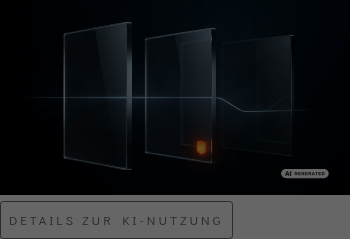
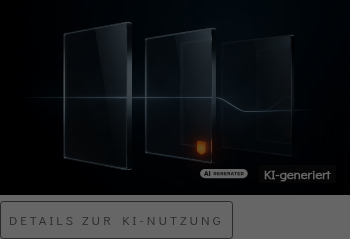
Begleitbeschriftung in der Sprache der Website neben dem EU-Symbol
Die offiziellen Symbole tragen den englischen Schriftzug "AI",
"AI GENERATED" bzw. "AI MODIFIED" und sind nicht uebersetzbar: Die Kommission
veroeffentlicht drei Varianten in vier Farbfassungen, in keiner weiteren
Sprache, und gestattet keine Aenderung des Schriftzugs. Darin liegt ihr Zweck
— ein Zeichen, das unionsweit gleich aussieht, wird wiedererkannt wie ein
Verkehrsschild. Eine selbst gesetzte deutsche Fassung waere ein Nachbau, kein
offizielles Symbol, und die Build-Anweisung untersagt das Nachzeichnen
ausdruecklich.

Die Bedeutung transportiert deshalb der Text daneben, und den gab es bisher
nur als Ersatz, wenn die Symboldateien fehlten. Neue Site-Set-Einstellung
showTextLabel (Vorgabe an) stellt die vorhandenen, uebersetzten Bezeichnungen
neben das Symbol: "KI-generiert", "KI-bearbeitet", "KI". Der Verhaltenskodex
empfiehlt eine solche Begleitbeschriftung ausdruecklich. Eine an der Datei
hinterlegte eigene Beschriftung hat Vorrang; fehlt das Symbol, erscheint der
Text nicht doppelt.

Der Schriftzug bekommt eine eigene Hinterlegung, hell oder dunkel passend zur
Symbolvariante. Ohne sie stuende er ueber Bildpunkten, die nie gemessen
wurden: BadgeContrastService prueft die Helligkeit hinter dem Symbol, der Text
reicht darueber hinaus. Am Beispiel nachgerechnet: 18,9:1 statt "kommt aufs
Bild an".

Dokumentiert in Konfiguration (de/en) samt der Begruendung, warum nicht
uebersetzt wird. Screenshot erneuert.
[…]

Changed region(s): [[0.7429, 0.7029, 0.9429, 0.7615], [0.5714, 0.7029, 0.7143, 0.7615]]

diff --git a/Resources/Public/Css/aimark.css b/Resources/Public/Css/aimark.css
@@ -135,6 +135,30 @@
   white-space: nowrap;
 }
 
+/*
+ * The wording beside the icon gets a ground of its own.
+ *
+ * The icon is a filled disc and brings its own contrast; the text does not.
+ * BadgeContrastService samples the small area behind the icon, and the text
+ * reaches beyond it — over pixels nobody measured. Without this the label
+ * would be legible on the sample and possibly not where it actually sits.
+ * On a badge that already has a plate the plate does the job.
+ */
+.nt-aimark__badge--plain .nt-aimark__badge-text {
+  padding: 0.1em 0.4em;
+  border-radius: 0.2em;
+}
+
+.nt-aimark__badge--plain.nt-aimark__badge--icon-white .nt-aimark__badge-text {
+  background: #111111;
+  color: #ffffff;
+}
+
+.nt-aimark__badge--plain.nt-aimark__badge--icon-dark .nt-aimark__badge-text {
+  background: #ffffff;
+  color: #111111;
+}
+
 .nt-aimark__toggle {
   display: inline-block;
   margin-top: 0.35rem;

diff --git a/Resources/Private/Templates/Label/Badge.html b/Resources/Private/Templates/Label/Badge.html
@@ -43,7 +43,14 @@
             </f:else>
         </f:if>
         <f:if condition="{labelText}">
-            <span class="nt-aimark__badge-text">{labelText}</span>
+            <f:then>
+                <span class="nt-aimark__badge-text">{labelText}</span>
+            </f:then>
+            <f:else>
+                <f:if condition="{standardTextKey}">
+                    <span class="nt-aimark__badge-text"><f:translate key="{standardTextKey}" /></span>
+                </f:if>
+            </f:else>
         </f:if>
     </span>
 </f:section>

diff --git a/Tests/Functional/Service/LabelRenderServiceTest.php b/Tests/Functional/Service/LabelRenderServiceTest.php
@@ -192,6 +192,72 @@ final class LabelRenderServiceTest extends FunctionalTestCase
     }
 
     /**
+     * The official icons carry an English wordmark and must not be redrawn or
+     * translated — they are the Commission's artwork and apply unchanged
+     * across the Union. The meaning therefore travels in the wording beside
+     * them, in the language of the site.
+     */
+    #[Test]
+    public function theIconIsAccompaniedByWordingInTheSiteLanguage(): void
+    {
+        $declaration = $this->generatedDeclaration();
+        $decision = (new DisclosureRuleService())->resolve($declaration, new AiMarkSettings());
+
+        $html = $this->rendererWithIcons()->renderBadge(
+            $declaration,
+            $decision,
+            $this->frontendRequest(),
+            showTextLabel: true,
+        );
+
+        self::assertStringContainsString('<svg', $html, 'The official icon still carries the badge.');
+        self::assertStringContainsString('KI-generiert', $html);
+
+        $this->removeEmptyIconDirectory();
+    }
+
+    #[Test]
+    public function theWordingCanBeSwitchedOff(): void
+    {
+        $declaration = $this->generatedDeclaration();
+        $decision = (new DisclosureRuleService())->resolve($declaration, new AiMarkSettings());
+
+        $html = $this->rendererWithIcons()->renderBadge(
+            $declaration,
+            $decision,
+            $this->frontendRequest(),
+            showTextLabel: false,
+        );
+
+        self::assertStringContainsString('<svg', $html);
+        self::assertStringNotContainsString('nt-aimark__badge-text', $html);
+
+        $this->removeEmptyIconDirectory();
+    }
+
+    /**
+     * Without the icon the badge already falls back to the same words. Adding
+     * the standard wording on top would say it twice.
+     */
+    #[Test]
+    public function withoutAnIconTheWordingIsNotRepeated(): void
+    {
+        $declaration = $this->generatedDeclaration();
+        $decision = (new DisclosureRuleService())->resolve($declaration, new AiMarkSettings());
+
+        $html = $this->rendererWithoutIcons()->renderBadge(
+            $declaration,
+            $decision,
+            $this->frontendRequest(),
+            showTextLabel: true,
+        );
+
+        self::assertSame(1, substr_count($html, 'KI-generiert'));
+
+        $this->removeEmptyIconDirectory();
+    }
+
+    /**
      * Used on its own, without image markup, there is nothing to frame.
      */
     #[Test]

diff --git a/Tests/Functional/Service/IconDirectoryTrait.php b/Tests/Functional/Service/IconDirectoryTrait.php
@@ -26,14 +26,45 @@ trait IconDirectoryTrait
 
     private function rendererWithoutIcons(): LabelRenderService
     {
+        return $this->rendererFor($this->iconDirectory());
+    }
+
+    /**
+     * Stand-ins for the official artwork, so a test about the badge does not
+     * depend on whether somebody downloaded the real files.
+     */
+    private function rendererWithIcons(): LabelRenderService
+    {
+        $directory = $this->iconDirectory();
+
+        foreach (['basic', 'generated', 'modified'] as $variant) {
+            foreach (['black', 'white'] as $colour) {
+                file_put_contents(
+                    $directory . 'ai-' . $variant . '-' . $colour . '.svg',
+                    '<svg xmlns="http://www.w3.org/2000/svg" viewBox="0 0 10 10">'
+                        . '<path fill="#fff" d="M0 0h10v10H0z"/></svg>',
+                );
+            }
+        }
+
+        return $this->rendererFor($directory);
+    }
+
+    private function iconDirectory(): string
+    {
         if ($this->emptyIconDirectory === '') {
-            $directory = sys_get_temp_dir() . '/nt-aimark-no-icons-' . uniqid('', true) . '/';
+            $directory = sys_get_temp_dir() . '/nt-aimark-icons-' . uniqid('', true) . '/';
             mkdir($directory, 0o777, true);
             $this->emptyIconDirectory = $directory;
         }
 
+        return $this->emptyIconDirectory;
+    }
+
+    private function rendererFor(string $directory): LabelRenderService
+    {
         return new LabelRenderService(
-            new IconResolverService($this->emptyIconDirectory),
+            new IconResolverService($directory),
             $this->get(ViewFactoryInterface::class),
             $this->get(AssetCollector::class),
             $this->get(BadgeContrastService::class),
@@ -43,6 +74,10 @@ trait IconDirectoryTrait
     private function removeEmptyIconDirectory(): void
     {
         if ($this->emptyIconDirectory !== '' && is_dir($this->emptyIconDirectory)) {
+            foreach (glob($this->emptyIconDirectory . '*') ?: [] as $file) {
+                unlink($file);
+            }
+
             rmdir($this->emptyIconDirectory);
         }
 

diff --git a/Classes/Service/LabelRenderService.php b/Classes/Service/LabelRenderService.php
@@ -47,6 +47,7 @@ final class LabelRenderService
         bool $showDetails = true,
         ?FileInterface $file = null,
         string $imageMarkup = '',
+        bool $showTextLabel = true,
     ): string {
         if (!$decision->shouldLabel) {
             return '';
@@ -113,6 +114,14 @@ final class LabelRenderService
             // detail panel — and would come to rest below the picture instead
             // of on it.
             'imageMarkup' => $imageMarkup,
+            // The official icons carry an English wordmark and must not be
+            // redrawn — so the meaning travels in the text beside them, in
+            // the language of the site. An entry on the file wins over it.
+            // Suppressed when the icon is absent, because the fallback below
+            // already says the same thing.
+            'standardTextKey' => $showTextLabel && $icon !== null && $decision->labelText === ''
+                ? $this->fallbackTextKey($decision->iconVariant)
+                : '',
         ]);
 
         return trim($view->render('Label/Badge'));

diff --git a/Classes/ViewHelpers/AbstractLabelViewHelper.php b/Classes/ViewHelpers/AbstractLabelViewHelper.php
@@ -5,6 +5,7 @@ declare(strict_types=1);
 namespace NetThinks\NtAimark\ViewHelpers;
 
 use NetThinks\NtAimark\Domain\Model\AiDeclaration;
+use NetThinks\NtAimark\Domain\Model\AiMarkSettings;
 use NetThinks\NtAimark\Domain\Model\LabelDecision;
 use NetThinks\NtAimark\Domain\Repository\DeclarationRepository;
 use NetThinks\NtAimark\Service\AiMarkSettingsFactory;
@@ -34,12 +35,14 @@ abstract class AbstractLabelViewHelper extends AbstractViewHelper
         }
 
         $declaration = $this->declarationRepository->forFile($file);
-        $decision = $this->disclosureRuleService->resolve(
-            $declaration,
-            $this->settingsFactory->fromRequest($this->request()),
-        );
+        $decision = $this->disclosureRuleService->resolve($declaration, $this->settings());
 
         return [$declaration, $decision];
+    }
+
+    protected function settings(): AiMarkSettings
+    {
+        return $this->settingsFactory->fromRequest($this->request());
     }
 
     /**

diff --git a/Classes/Domain/Model/AiMarkSettings.php b/Classes/Domain/Model/AiMarkSettings.php
@@ -31,5 +31,15 @@ final readonly class AiMarkSettings
         public bool $showDetails = true,
         public string $badgePosition = 'bottom-right',
         public string $badgeSize = 'medium',
+        /**
+         * Whether the icon is accompanied by wording in the site's language.
+         *
+         * The official icons carry an English wordmark and are not translated
+         * — they are the Commission's artwork and apply unchanged across the
+         * Union, which is what makes them recognisable in the first place. The
+         * meaning therefore travels in the text beside them, which the Code of
+         * Practice asks to be plain language.
+         */
+        public bool $showTextLabel = true,
     ) {}
 }

diff --git a/Classes/ViewHelpers/AiFigureViewHelper.php b/Classes/ViewHelpers/AiFigureViewHelper.php
@@ -63,6 +63,7 @@ final class AiFigureViewHelper extends AbstractLabelViewHelper
             (bool) $this->arguments['showDetails'],
             $file instanceof FileInterface ? $file : null,
             $content,
+            $this->settings()->showTextLabel,
         );
 
         if ($badge === '') {

diff --git a/Classes/Service/AiMarkSettingsFactory.php b/Classes/Service/AiMarkSettingsFactory.php
@@ -48,6 +48,7 @@ final readonly class AiMarkSettingsFactory
                 self::SIZES,
                 $defaults->badgeSize,
             ),
+            showTextLabel: (bool) $settings->get('ntAimark.showTextLabel', $defaults->showTextLabel),
         );
     }
 

diff --git a/docs/configuration.de.md b/docs/configuration.de.md
@@ -13,6 +13,7 @@ setzbar — im Backend unter *Websites → Einrichtung → Einstellungen* oder i
 | `ntAimark.showDetails` | bool | `true` | Aufklappbare Detailebene unter dem Symbol |
 | `ntAimark.badgePosition` | string | `bottom-right` | `top-left`, `top-right`, `bottom-left`, `bottom-right` |
 | `ntAimark.badgeSize` | string | `medium` | `small`, `medium`, `large` |
+| `ntAimark.showTextLabel` | bool | `true` | Bezeichnung in der Sprache der Website neben dem Symbol |
 
 ### `labelUnknownOrigin`
 
@@ -30,6 +31,7 @@ ntAimark:
   showDetails: true
   badgePosition: bottom-right
   badgeSize: medium
+  showTextLabel: true
 ```
 
 ### `useFileRenderer`
@@ -44,6 +46,33 @@ zurück. Ein Bild-Renderer müsste diese Ausgabe nachbauen — samt
 Crop-Varianten, Fokusbereich, `loading`, `decoding`, Alternativtext — und
 diese Kopie über jedes Core-Release hinweg nachziehen. Für Bilder sind
 deshalb die ViewHelper der vorgesehene Weg.
+
+### `showTextLabel`
+
+Die offiziellen Symbole tragen den englischen Schriftzug „AI", „AI GENERATED"
+bzw. „AI MODIFIED". **Sie sind nicht übersetzbar**: Die Kommission
+veröffentlicht sie in drei Varianten und vier Farbfassungen, in keiner
+weiteren Sprache, und gestattet keine Änderung des Schriftzugs. Genau darin
+liegt ihr Zweck — ein Zeichen, das in der ganzen Union gleich aussieht, wird
+wiedererkannt wie ein Verkehrsschild. Eine selbst gesetzte deutsche Fassung
+wäre ein Nachbau, kein offizielles Symbol.
+
+Die Bedeutung transportiert deshalb der Text daneben. Diese Einstellung
+stellt neben das Symbol die Bezeichnung in der Sprache der Website —
+„KI-generiert", „KI-bearbeitet", „KI" —, übersetzbar über XLIFF wie jeder
+andere Text der Extension. Der Verhaltenskodex empfiehlt eine solche
+Begleitbeschriftung ausdrücklich, in einfacher Sprache und ohne Abkürzungen
+außer „AI".
+
+Eine an der Datei hinterlegte eigene Beschriftung hat Vorrang. Fehlen die
+Symboldateien ganz, erscheint ohnehin nur der Text — dann wird er nicht
+doppelt gesetzt.
+
+Der Schriftzug bekommt eine eigene Hinterlegung, hell oder dunkel passend zur
+gewählten Symbolvariante. Das ist keine Stilfrage: Die Helligkeitsmessung
+betrifft den kleinen Bereich hinter dem Symbol, der Text reicht darüber
+hinaus — ohne Hinterlegung stünde er über Bildpunkten, die niemand gemessen
+hat.
 
 ## ViewHelper-Argumente
 

diff --git a/docs/configuration.en.md b/docs/configuration.en.md
@@ -13,6 +13,7 @@ site — in the backend under *Sites → Setup → Settings*, or in
 | `ntAimark.showDetails` | bool | `true` | Expandable detail panel below the icon |
 | `ntAimark.badgePosition` | string | `bottom-right` | `top-left`, `top-right`, `bottom-left`, `bottom-right` |
 | `ntAimark.badgeSize` | string | `medium` | `small`, `medium`, `large` |
+| `ntAimark.showTextLabel` | bool | `true` | Wording in the site language beside the icon |
 
 ```yaml
 ntAimark:
@@ -21,6 +22,7 @@ ntAimark:
   showDetails: true
   badgePosition: bottom-right
   badgeSize: medium
+  showTextLabel: true
 ```
 
 ### `labelUnknownOrigin`
@@ -53,6 +55,29 @@ long it may take. Backend → *Settings → Extension Configuration → nt_aimar
 | `additionalExifSignatures` | empty | Extra EXIF signatures, comma-separated as `needle=vendor` |
 | `preserveMetadata` | on | Restore the XMP packet in processed images |
 | `additionalTextTables` | empty | Further tables carrying the text fields |
+
+### `showTextLabel`
+
+The official icons carry the English wordmark "AI", "AI GENERATED" or "AI
+MODIFIED". **They cannot be translated**: the Commission publishes them in
+three variants and four colour versions, in no other language, and permits no
+change to the wording. That is precisely the point — a mark that looks the
+same across the Union is recognised the way a road sign is. A version of one's
+own would be a lookalike, not the official icon.
+
+The meaning therefore travels in the text beside it. This setting places the
+wording in the site's language next to the icon — "AI generated", "AI
+modified", "AI" — translatable through XLIFF like any other text in the
+extension. The Code of Practice explicitly recommends such an accompanying
+label, in plain language and without abbreviations other than "AI".
+
+A caption entered on the file itself takes precedence. With the icon files
+absent the text appears on its own anyway, and is not then set twice.
+
+The wording gets a ground of its own, light or dark to match the chosen icon
+variant. That is not a matter of taste: the brightness measurement covers the
+small area behind the icon, and the text reaches beyond it — without a ground
+it would sit over pixels nobody measured.
 
 ## ViewHelpers
 
